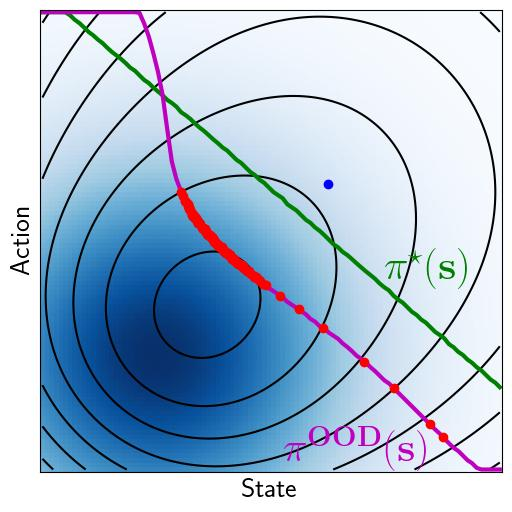
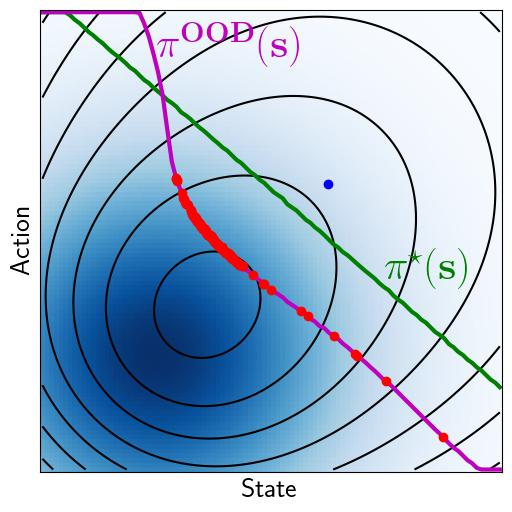
update OOD

diff --git a/Safety/Codes/Epistemic/OOD_Policy2.py b/Safety/Codes/Epistemic/OOD_Policy2.py
@@ -142,7 +142,7 @@ for case in ['Map','Star','OOD']:
         
         if case == 'OOD':
             ax1.plot(spolplot,apolplot['OOD'],color='m',linewidth=3)
-            ax1.text(.7,Policy(.7,Pi['OOD']),r'$\bf\pi^{\tiny OOD}(s)$',fontsize=30,verticalalignment='top',horizontalalignment='right',color='m')
+            ax1.text(-.5,Policy(-.5,Pi['OOD']),r'$\bf\pi^{\tiny OOD}(s)$',fontsize=30,verticalalignment='bottom',horizontalalignment='left',color='m')
        
         ax1.plot(SA[0,:],SA[1,:],marker='o',color='r',linestyle='none')
         
